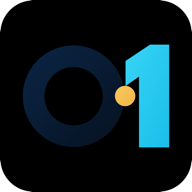
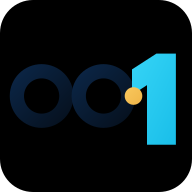
Adopt sifrsifr.one 00.1 brand identity

diff --git a/src/components/Hero.tsx b/src/components/Hero.tsx
@@ -5,5 +5,5 @@ import { siteSettings } from "@/src/content/siteSettings";
 
 export function Hero({ locale }: { locale: Locale }) {
   const ar = locale === "ar";
-  return <section className="hero"><div className="hero-grid" aria-hidden="true"></div><div className="container hero-layout"><div className="hero-copy"><div className="eyebrow"><span></span>{ar ? "من ألمانيا إلى السوق العراقي" : "From Germany to the Iraqi market"}</div><h1>{ar ? <>نحوّل فكرتك إلى <em>نظام رقمي</em> يعمل فعليًا.</> : <>Turn your idea into a <em>digital system</em> that actually works.</>}</h1><p>{ar ? "خدمات رقمية موجّهة إلى أصحاب الأعمال في العراق، تُدار وتُنفّذ من ألمانيا، مع تواصل عربي وخطة واضحة من الفكرة حتى الإطلاق." : "Digital services for business owners in Iraq, managed and delivered from Germany with Arabic communication and a clear plan from idea to launch."}</p><div className="hero-actions"><Link className="button primary" href={`/${locale}#project-wizard`}>{ar ? "ابدأ وصف مشروعك" : "Describe your project"}<span>↗</span></Link><Link className="button ghost" href={`/${locale}#contact`}>{ar ? "استشارة أولية" : "Initial consultation"}</Link><Link className="button ghost" href={`/${locale}/demos`}>{ar ? "جرّب النماذج" : "Try the demos"}</Link><button className="button ghost whatsapp-cta" type="button" disabled>{ar ? "WhatsApp — قريبًا" : "WhatsApp — soon"}</button></div><div className="hero-experience"><span className="hero-experience-years" aria-hidden="true"><b>25</b><small>{ar ? "عامًا" : "years"}</small></span><i aria-hidden="true"></i><p><strong>{ar ? "خبرة برمجية" : "Programming experience"}</strong><small>{ar ? <>منذ عام <b>2001</b></> : <>since <b>2001</b></>}</small></p></div><div className="trust-row"><span><i>✓</i>{ar ? "تواصل بالعربية" : "Arabic communication"}</span><span><i>✓</i>{ar ? "نطاق واضح" : "Clear scope"}</span><span><i>✓</i>{ar ? "قابل للتوسع" : "Built to scale"}</span></div></div><div className="hero-scene" aria-label={ar ? "مشهد توضيحي يربط موقعًا وتطبيقًا ولوحة إدارة" : "Illustration connecting a website, app and dashboard"}><div className="scene-orbit one"></div><div className="scene-orbit two"></div><div className="screen main-screen"><div className="screen-top"><span></span><span></span><span></span><b>workspace · sifr.one</b></div><div className="screen-body"><div className="side-rail"></div><div className="dash-content"><div className="dash-heading"></div><div className="dash-cards"><i></i><i></i><i></i></div><div className="dash-chart"><span></span></div></div></div></div><div className="phone"><div className="phone-notch"></div><div className="phone-logo"><img src="/app-icon-512.png" alt="" width="38" height="38" /></div><i></i><i></i><button aria-hidden="true"></button></div><div className="code-card"><span>01</span><code>request → validate</code><code>CRM → notify</code><code>report → ready</code></div><div className="flow-chip chip-one"><i>✓</i>{ar ? "تم تسجيل الطلب" : "Request captured"}</div><div className="flow-chip chip-two"><i>↯</i>{ar ? "الأتمتة تعمل" : "Automation live"}</div><div className="data-dot d1"></div><div className="data-dot d2"></div><div className="data-dot d3"></div></div></div><div className="container hero-foot"><span>{ar ? "مزوّد الخدمة والطرف المتعاقد" : "Service provider and contracting party"}</span><b>{siteSettings.provider.legalName}</b><span>•</span><span>Düsseldorf, Germany</span><span>→</span><span>Iraq</span></div></section>;
+  return <section className="hero"><div className="hero-grid" aria-hidden="true"></div><div className="container hero-layout"><div className="hero-copy"><div className="eyebrow"><span></span>{ar ? "من ألمانيا إلى السوق العراقي" : "From Germany to the Iraqi market"}</div><h1>{ar ? <>نحوّل فكرتك إلى <em>نظام رقمي</em> يعمل فعليًا.</> : <>Turn your idea into a <em>digital system</em> that actually works.</>}</h1><p>{ar ? "خدمات رقمية موجّهة إلى أصحاب الأعمال في العراق، تُدار وتُنفّذ من ألمانيا، مع تواصل عربي وخطة واضحة من الفكرة حتى الإطلاق." : "Digital services for business owners in Iraq, managed and delivered from Germany with Arabic communication and a clear plan from idea to launch."}</p><div className="hero-actions"><Link className="button primary" href={`/${locale}#project-wizard`}>{ar ? "ابدأ وصف مشروعك" : "Describe your project"}<span>↗</span></Link><Link className="button ghost" href={`/${locale}#contact`}>{ar ? "استشارة أولية" : "Initial consultation"}</Link><Link className="button ghost" href={`/${locale}/demos`}>{ar ? "جرّب النماذج" : "Try the demos"}</Link><button className="button ghost whatsapp-cta" type="button" disabled>{ar ? "WhatsApp — قريبًا" : "WhatsApp — soon"}</button></div><div className="hero-experience"><span className="hero-experience-years" aria-hidden="true"><b>25</b><small>{ar ? "عامًا" : "years"}</small></span><i aria-hidden="true"></i><p><strong>{ar ? "خبرة برمجية" : "Programming experience"}</strong><small>{ar ? <>منذ عام <b>2001</b></> : <>since <b>2001</b></>}</small></p></div><div className="trust-row"><span><i>✓</i>{ar ? "تواصل بالعربية" : "Arabic communication"}</span><span><i>✓</i>{ar ? "نطاق واضح" : "Clear scope"}</span><span><i>✓</i>{ar ? "قابل للتوسع" : "Built to scale"}</span></div></div><div className="hero-scene" aria-label={ar ? "مشهد توضيحي يربط موقعًا وتطبيقًا ولوحة إدارة" : "Illustration connecting a website, app and dashboard"}><div className="scene-orbit one"></div><div className="scene-orbit two"></div><div className="screen main-screen"><div className="screen-top"><span></span><span></span><span></span><b>workspace · sifrsifr.one</b></div><div className="screen-body"><div className="side-rail"></div><div className="dash-content"><div className="dash-heading"></div><div className="dash-cards"><i></i><i></i><i></i></div><div className="dash-chart"><span></span></div></div></div></div><div className="phone"><div className="phone-notch"></div><div className="phone-logo"><img src="/app-icon-512.png" alt="" width="38" height="38" /></div><i></i><i></i><button aria-hidden="true"></button></div><div className="code-card"><span>01</span><code>request → validate</code><code>CRM → notify</code><code>report → ready</code></div><div className="flow-chip chip-one"><i>✓</i>{ar ? "تم تسجيل الطلب" : "Request captured"}</div><div className="flow-chip chip-two"><i>↯</i>{ar ? "الأتمتة تعمل" : "Automation live"}</div><div className="data-dot d1"></div><div className="data-dot d2"></div><div className="data-dot d3"></div></div></div><div className="container hero-foot"><span>{ar ? "مزوّد الخدمة والطرف المتعاقد" : "Service provider and contracting party"}</span><b>{siteSettings.provider.legalName}</b><span>•</span><span>Düsseldorf, Germany</span><span>→</span><span>Iraq</span></div></section>;
 }

diff --git a/src/components/SiteFooter.tsx b/src/components/SiteFooter.tsx
@@ -6,4 +6,4 @@ import { legalDocuments } from "@/src/content/legalContent";
 import { siteSettings } from "@/src/content/siteSettings";
 import { BrandLogo } from "@/src/components/BrandLogo";
 
-export function SiteFooter({ locale }: { locale: Locale }) { const ar = locale === "ar"; return <footer className="site-footer"><div className="container"><div className="footer-top"><div className="footer-brand"><div className="wordmark" aria-label="sifr.one"><BrandLogo /></div><p>{ar ? siteSettings.brand.tagline.ar : siteSettings.brand.tagline.en}</p><p className="legal-identity">{ar ? "مزوّد الخدمة والطرف المتعاقد: عمر العزي (Omar Al‑Ezzi)، دوسلدورف، ألمانيا." : "Service provider and contracting party: Omar Al‑Ezzi, Düsseldorf, Germany."}</p></div><div><h3>{ar ? "الخدمات" : "Services"}</h3>{services.slice(0, 5).map(x => <Link key={x.slug} href={`/${locale}/services/${x.slug}`}>{x.title[locale]}</Link>)}</div><div><h3>{ar ? "القطاعات" : "Industries"}</h3>{industries.slice(0, 5).map(x => <Link key={x.slug} href={`/${locale}/industries/${x.slug}`}>{x.title[locale]}</Link>)}</div><div><h3>{ar ? "معلومات" : "Information"}</h3><Link href={`/${locale}/knowledge`}>{ar ? "مركز المعرفة" : "Knowledge centre"}</Link>{legalDocuments.slice(0, 5).map(x => <Link key={x.slug} href={`/${locale}/legal/${x.slug}`}>{x.title[locale]}</Link>)}</div></div><div className="footer-legal"><div className="legal-links">{legalDocuments.slice(5).map(x => <Link key={x.slug} href={`/${locale}/legal/${x.slug}`}>{x.title[locale]}</Link>)}</div><p>{ar ? "الصفحات القانونية مسودات تشغيلية، وتحتاج إلى مراجعة مختص قبل الإطلاق." : "Legal pages are operational drafts and require professional review before launch."}</p></div><div className="footer-bottom"><span>© 2026 sifr.one · {siteSettings.provider.legalName}</span><span>{ar ? "مصمّم للسوق العراقي · يُنفَّذ من ألمانيا" : "Designed for Iraq · Delivered from Germany"}</span></div></div></footer>; }
+export function SiteFooter({ locale }: { locale: Locale }) { const ar = locale === "ar"; return <footer className="site-footer"><div className="container"><div className="footer-top"><div className="footer-brand"><div className="wordmark" aria-label="sifrsifr.one"><BrandLogo /></div><p>{ar ? siteSettings.brand.tagline.ar : siteSettings.brand.tagline.en}</p><p className="legal-identity">{ar ? "مزوّد الخدمة والطرف المتعاقد: عمر العزي (Omar Al‑Ezzi)، دوسلدورف، ألمانيا." : "Service provider and contracting party: Omar Al‑Ezzi, Düsseldorf, Germany."}</p></div><div><h3>{ar ? "الخدمات" : "Services"}</h3>{services.slice(0, 5).map(x => <Link key={x.slug} href={`/${locale}/services/${x.slug}`}>{x.title[locale]}</Link>)}</div><div><h3>{ar ? "القطاعات" : "Industries"}</h3>{industries.slice(0, 5).map(x => <Link key={x.slug} href={`/${locale}/industries/${x.slug}`}>{x.title[locale]}</Link>)}</div><div><h3>{ar ? "معلومات" : "Information"}</h3><Link href={`/${locale}/knowledge`}>{ar ? "مركز المعرفة" : "Knowledge centre"}</Link>{legalDocuments.slice(0, 5).map(x => <Link key={x.slug} href={`/${locale}/legal/${x.slug}`}>{x.title[locale]}</Link>)}</div></div><div className="footer-legal"><div className="legal-links">{legalDocuments.slice(5).map(x => <Link key={x.slug} href={`/${locale}/legal/${x.slug}`}>{x.title[locale]}</Link>)}</div><p>{ar ? "الصفحات القانونية مسودات تشغيلية، وتحتاج إلى مراجعة مختص قبل الإطلاق." : "Legal pages are operational drafts and require professional review before launch."}</p></div><div className="footer-bottom"><span>© 2026 sifrsifr.one · {siteSettings.provider.legalName}</span><span>{ar ? "مصمّم للسوق العراقي · يُنفَّذ من ألمانيا" : "Designed for Iraq · Delivered from Germany"}</span></div></div></footer>; }

diff --git a/src/components/SiteHeader.tsx b/src/components/SiteHeader.tsx
@@ -27,5 +27,5 @@ export function SiteHeader({ locale }: { locale: Locale }) {
     [`/${locale}#faq`, copy.nav.faq],
     [`/${locale}#contact`, copy.nav.contact],
   ];
-  return <header className="site-header"><div className="container nav-wrap"><Link href={`/${locale}`} className="wordmark" aria-label={locale === "ar" ? "sifr.one — الصفحة الرئيسية" : "sifr.one — Home"}><BrandLogo priority /></Link><button className="menu-button" type="button" onClick={() => setOpen(!open)} aria-expanded={open} aria-controls="main-nav"><span></span><span></span><span></span><em>{locale === "ar" ? "القائمة" : "Menu"}</em></button><nav id="main-nav" className={open ? "nav-links open" : "nav-links"} aria-label={locale === "ar" ? "قائمة التنقل الرئيسية" : "Main navigation"}>{links.map(([href, label]) => <Link key={href} href={href} onClick={() => setOpen(false)}>{label}</Link>)}</nav><div className="nav-actions"><button className="wa-button" type="button" disabled title={locale === "ar" ? "يُفعَّل بعد إضافة رقم WhatsApp" : "Enabled after adding a WhatsApp number"}>WA</button><button className="lite-toggle" type="button" onClick={toggleLite} aria-pressed={lite}><span aria-hidden="true">◐</span>{lite ? copy.normal : copy.light}</button><Link className="lang-switch" href={`/${other}`} hrefLang={other}>{other.toUpperCase()}</Link><Link className="button small primary" href={`/${locale}#project-wizard`}>{copy.quote}</Link></div></div></header>;
+  return <header className="site-header"><div className="container nav-wrap"><Link href={`/${locale}`} className="wordmark" aria-label={locale === "ar" ? "sifrsifr.one — الصفحة الرئيسية" : "sifrsifr.one — Home"}><BrandLogo priority /></Link><button className="menu-button" type="button" onClick={() => setOpen(!open)} aria-expanded={open} aria-controls="main-nav"><span></span><span></span><span></span><em>{locale === "ar" ? "القائمة" : "Menu"}</em></button><nav id="main-nav" className={open ? "nav-links open" : "nav-links"} aria-label={locale === "ar" ? "قائمة التنقل الرئيسية" : "Main navigation"}>{links.map(([href, label]) => <Link key={href} href={href} onClick={() => setOpen(false)}>{label}</Link>)}</nav><div className="nav-actions"><button className="wa-button" type="button" disabled title={locale === "ar" ? "يُفعَّل بعد إضافة رقم WhatsApp" : "Enabled after adding a WhatsApp number"}>WA</button><button className="lite-toggle" type="button" onClick={toggleLite} aria-pressed={lite}><span aria-hidden="true">◐</span>{lite ? copy.normal : copy.light}</button><Link className="lang-switch" href={`/${other}`} hrefLang={other}>{other.toUpperCase()}</Link><Link className="button small primary" href={`/${locale}#project-wizard`}>{copy.quote}</Link></div></div></header>;
 }

diff --git a/app/globals.css b/app/globals.css
@@ -36,14 +36,9 @@ button:focus-visible, a:focus-visible, input:focus-visible, textarea:focus-visib
 .site-header { position: sticky; z-index: 100; top: 0; height: 78px; display: flex; align-items: center; background: rgba(6, 17, 31, .83); border-bottom: 1px solid var(--line); backdrop-filter: blur(18px); }
 .nav-wrap { display: flex; align-items: center; gap: 24px; }
 .wordmark { display: inline-flex; align-items: center; flex: 0 0 auto; border-radius: 12px; }
-.brand-logo { width: 72px; height: 70px; display: grid; grid-template-rows: 49px 18px; place-items: center; overflow: hidden; border-radius: 8px; background: #000; direction: ltr; }
-.brand-logo-mark { position: relative; width: 64px; height: 47px; display: block; }
-.brand-logo-zero { position: absolute; inset: 5px auto auto 3px; width: 39px; height: 39px; border: 9px solid #0b2545; border-radius: 50%; }
-.brand-logo-one { position: absolute; z-index: 1; inset: 3px 3px auto auto; width: 16px; height: 42px; background: #27c8f2; clip-path: polygon(0 18%, 65% 0, 100% 0, 100% 100%, 43% 100%, 43% 30%, 0 42%); }
-.brand-logo-dot { position: absolute; z-index: 2; top: 24px; left: 42px; width: 9px; height: 9px; border-radius: 50%; background: #f4bc50; transform: translate(-50%,-50%); }
-.brand-logo-name { display: flex; align-items: baseline; justify-content: center; color: #0b2545; font: 800 15px/.9 var(--font-latin), sans-serif; letter-spacing: -.07em; }
-.brand-logo-name b,.brand-logo-name strong { font: inherit; }.brand-logo-name strong { color: #27c8f2; }.brand-logo-name i { margin: 0 1px; color: #f4bc50; font: 900 18px/.7 var(--font-latin),sans-serif; }
-.site-header .brand-logo { width: 72px; height: 70px; }
+.brand-logo { width: 86px; height: 72px; display: grid; place-items: center; overflow: hidden; border-radius: 8px; background: #000; direction: ltr; }
+.brand-logo img { width: 100%; height: 100%; display: block; object-fit: contain; }
+.site-header .brand-logo { width: 86px; height: 72px; }
 .site-header .wordmark { margin-block: -2px; }
 .site-header .wordmark:hover .brand-logo { box-shadow: 0 0 16px rgba(39,200,242,.14); }
 .nav-links { display: flex; align-items: center; justify-content: center; gap: 18px; flex: 1; }

diff --git a/app/[locale]/page.tsx b/app/[locale]/page.tsx
@@ -20,9 +20,9 @@ export async function generateMetadata({ params }: { params: Promise<{ locale: s
   const protocol = host.includes("localhost") ? "http" : "https";
   const base = `${protocol}://${host}`;
   const ar = locale !== "en";
-  const title = ar ? "sifr.one — تصميم مواقع وتطبيقات وأتمتة أعمال للعراق" : "sifr.one — Websites, apps and business automation for Iraq";
+  const title = ar ? "sifrsifr.one — تصميم مواقع وتطبيقات وأتمتة أعمال للعراق" : "sifrsifr.one — Websites, apps and business automation for Iraq";
   const description = ar ? "نحوّل فكرتك إلى موقع أو تطبيق أو نظام يعمل فعليًا، مع تنفيذ من ألمانيا وتواصل بالعربية." : "Turn your idea into a website, app or system that works—delivered from Germany with Arabic communication.";
-  return { title: { absolute: title }, description, alternates: { languages: { ar: `${base}/ar`, en: `${base}/en` } }, openGraph: { siteName: "sifr.one", title, description, type: "website", locale: ar ? "ar_IQ" : "en_US", images: [{ url: `${base}/og.png`, width: 1536, height: 1024, alt: title }] }, twitter: { card: "summary_large_image", title, description, images: [`${base}/og.png`] } };
+  return { title: { absolute: title }, description, alternates: { languages: { ar: `${base}/ar`, en: `${base}/en` } }, openGraph: { siteName: "sifrsifr.one", title, description, type: "website", locale: ar ? "ar_IQ" : "en_US", images: [{ url: `${base}/og.png`, width: 1536, height: 1024, alt: title }] }, twitter: { card: "summary_large_image", title, description, images: [`${base}/og.png`] } };
 }
 
 export default async function LocaleHome({ params }: { params: Promise<{ locale: string }> }) {

diff --git a/src/components/InstallAppPrompt.tsx b/src/components/InstallAppPrompt.tsx
@@ -93,11 +93,11 @@ export function InstallAppPrompt({ locale }: { locale: Locale }) {
   } satisfies Record<InstallGuide, { title: string; body: string; mark: string }>;
 
   return <>
-    {visible && <aside className={`install-suggestion${installed ? " installed" : ""}`} aria-live="polite" aria-label={ar ? "تثبيت sifr.one كتطبيق" : "Install sifr.one as an app"}>
+    {visible && <aside className={`install-suggestion${installed ? " installed" : ""}`} aria-live="polite" aria-label={ar ? "تثبيت sifrsifr.one كتطبيق" : "Install sifrsifr.one as an app"}>
       <span className="install-app-icon" aria-hidden="true"><img src="/app-icon-512.png" alt="" width="48" height="48" /></span>
       <span className="install-copy">
         <small>{installed ? (ar ? "أصبح جاهزًا" : "Ready to use") : (ar ? "وصول مباشر" : "Direct access")}</small>
-        <strong>{installed ? (ar ? "تم تثبيت sifr.one على جهازك" : "sifr.one is installed on your device") : (ar ? "ثبّت sifr.one على جهازك" : "Install sifr.one on your device")}</strong>
+        <strong>{installed ? (ar ? "تم تثبيت sifrsifr.one على جهازك" : "sifrsifr.one is installed on your device") : (ar ? "ثبّت sifrsifr.one على جهازك" : "Install sifrsifr.one on your device")}</strong>
         <em>{ar ? "افتحه من الشاشة الرئيسية أو سطح المكتب، مثل أي تطبيق." : "Open it from your home screen or desktop, just like an app."}</em>
       </span>
       {!installed && <button className="install-action" type="button" onClick={requestInstall}><span aria-hidden="true">↓</span>{ar ? "تثبيت" : "Install"}</button>}

diff --git a/app/layout.tsx b/app/layout.tsx
@@ -17,12 +17,12 @@ const latin = Plus_Jakarta_Sans({
 });
 
 export const metadata: Metadata = {
-  title: { default: "sifr.one | حلول رقمية للسوق العراقي", template: "%s | sifr.one" },
+  title: { default: "sifrsifr.one | حلول رقمية للسوق العراقي", template: "%s | sifrsifr.one" },
   description: "مواقع وتطبيقات وأنظمة وأتمتة أعمال موجّهة للعراق، تُدار وتُنفّذ من ألمانيا مع تواصل واضح بالعربية.",
-  applicationName: "sifr.one",
+  applicationName: "sifrsifr.one",
   category: "technology",
-  creator: "sifr.one",
-  publisher: "sifr.one",
+  creator: "sifrsifr.one",
+  publisher: "sifrsifr.one",
   manifest: "/manifest.webmanifest",
   icons: {
     icon: [
@@ -33,7 +33,7 @@ export const metadata: Metadata = {
     shortcut: [{ url: "/favicon.svg", type: "image/svg+xml" }],
     apple: [{ url: "/apple-touch-icon.png", sizes: "180x180", type: "image/png" }],
   },
-  appleWebApp: { capable: true, statusBarStyle: "black-translucent", title: "sifr.one" },
+  appleWebApp: { capable: true, statusBarStyle: "black-translucent", title: "sifrsifr.one" },
 };
 
 export const viewport: Viewport = { themeColor: "#081827", colorScheme: "dark" };

diff --git a/src/components/BrandLogo.tsx b/src/components/BrandLogo.tsx
@@ -1,17 +1,14 @@
+import Image from "next/image";
+
 type BrandLogoProps = {
   className?: string;
   priority?: boolean;
 };
 
-export function BrandLogo({ className = "" }: BrandLogoProps) {
+export function BrandLogo({ className = "", priority = false }: BrandLogoProps) {
   return (
-    <span className={`brand-logo${className ? ` ${className}` : ""}`} role="img" aria-label="sifr.one">
-      <span className="brand-logo-mark" aria-hidden="true">
-        <i className="brand-logo-zero" />
-        <i className="brand-logo-dot" />
-        <i className="brand-logo-one" />
-      </span>
-      <span className="brand-logo-name" aria-hidden="true"><b>sifr</b><i>·</i><strong>one</strong></span>
+    <span className={`brand-logo${className ? ` ${className}` : ""}`}>
+      <Image src="/brand/sifrsifr-one-logo.svg" alt="sifrsifr.one" width={86} height={84} priority={priority} />
     </span>
   );
 }

diff --git a/src/content/siteSettings.ts b/src/content/siteSettings.ts
@@ -1,7 +1,7 @@
 export const siteSettings = {
   brand: {
-    name: "sifr.one",
-    arabicName: "sifr.one",
+    name: "sifrsifr.one",
+    arabicName: "sifrsifr.one",
     tagline: {
       ar: "تقنيات حديثة، وتواصل بالعربية، وتنفيذ من ألمانيا.",
       en: "Modern technology, Arabic communication, delivery from Germany.",
@@ -19,7 +19,7 @@ export const siteSettings = {
     supervisoryAuthority: "[VERIFY IF APPLICABLE]",
   },
   contact: {
-    domain: "sifr.one",
+    domain: "sifrsifr.one",
     email: "[NEW_BUSINESS_EMAIL]",
     phone: "[TO_BE_ADDED]",
     whatsapp: "[TO_BE_ADDED]",

diff --git a/app/manifest.ts b/app/manifest.ts
@@ -2,8 +2,8 @@ import type { MetadataRoute } from "next";
 
 export default function manifest(): MetadataRoute.Manifest {
   return {
-    name: "sifr.one — حلول رقمية للسوق العراقي",
-    short_name: "sifr.one",
+    name: "sifrsifr.one — حلول رقمية للسوق العراقي",
+    short_name: "sifrsifr.one",
     description: "مواقع وتطبيقات وأنظمة وأتمتة أعمال موجّهة إلى السوق العراقي.",
     start_url: "/ar",
     scope: "/",

diff --git a/public/sw.js b/public/sw.js
@@ -1,5 +1,5 @@
-const CACHE_PREFIX = "sifr-one-shell-";
-const CACHE_NAME = `${CACHE_PREFIX}v2`;
+const CACHE_PREFIX = "sifrsifr-one-shell-";
+const CACHE_NAME = `${CACHE_PREFIX}v3`;
 const FALLBACK_PAGES = ["/ar", "/en"];
 
 self.addEventListener("install", (event) => {

diff --git a/README.md b/README.md
@@ -1,4 +1,4 @@
-# sifr.one — منصة خدمات رقمية للعراق
+# sifrsifr.one — منصة خدمات رقمية للعراق
 
 موقع ثنائي اللغة لمزوّد خدمات رقمية فردي مقيم في ألمانيا ويستهدف أصحاب الأعمال في العراق. تُختبر التغييرات محليًا قبل تحديث النسخة المنشورة.
 
@@ -49,7 +49,7 @@ npm run verify
 
 1. استبدال `[NEW_BUSINESS_EMAIL]` و`[TO_BE_ADDED]`.
 2. التحقق من الشكل القانوني وUSt-IdNr. والسجل والجهة الرقابية عند انطباقها.
-3. مراجعة إشارات `sifr.one` الداخلية وتحديث sitemap وrobots والعناوين الأساسية إلى `sifrsifr.one` عندما يُعتمد الدومين الجديد نهائيًا في هوية الموقع.
+3. مراجعة sitemap وrobots والعناوين الأساسية بعد أي تغيير مستقبلي في الدومين.
 4. ربط النماذج ببريد أو CRM أو Webhook وتحديد سياسة احتفاظ فعلية.
 5. إضافة رقم WhatsApp وتفعيل الأزرار بعد التحقق من طريقة الربط.
 6. مراجعة جميع الصفحات القانونية من مختص قبل الإطلاق أو التعاقد.
